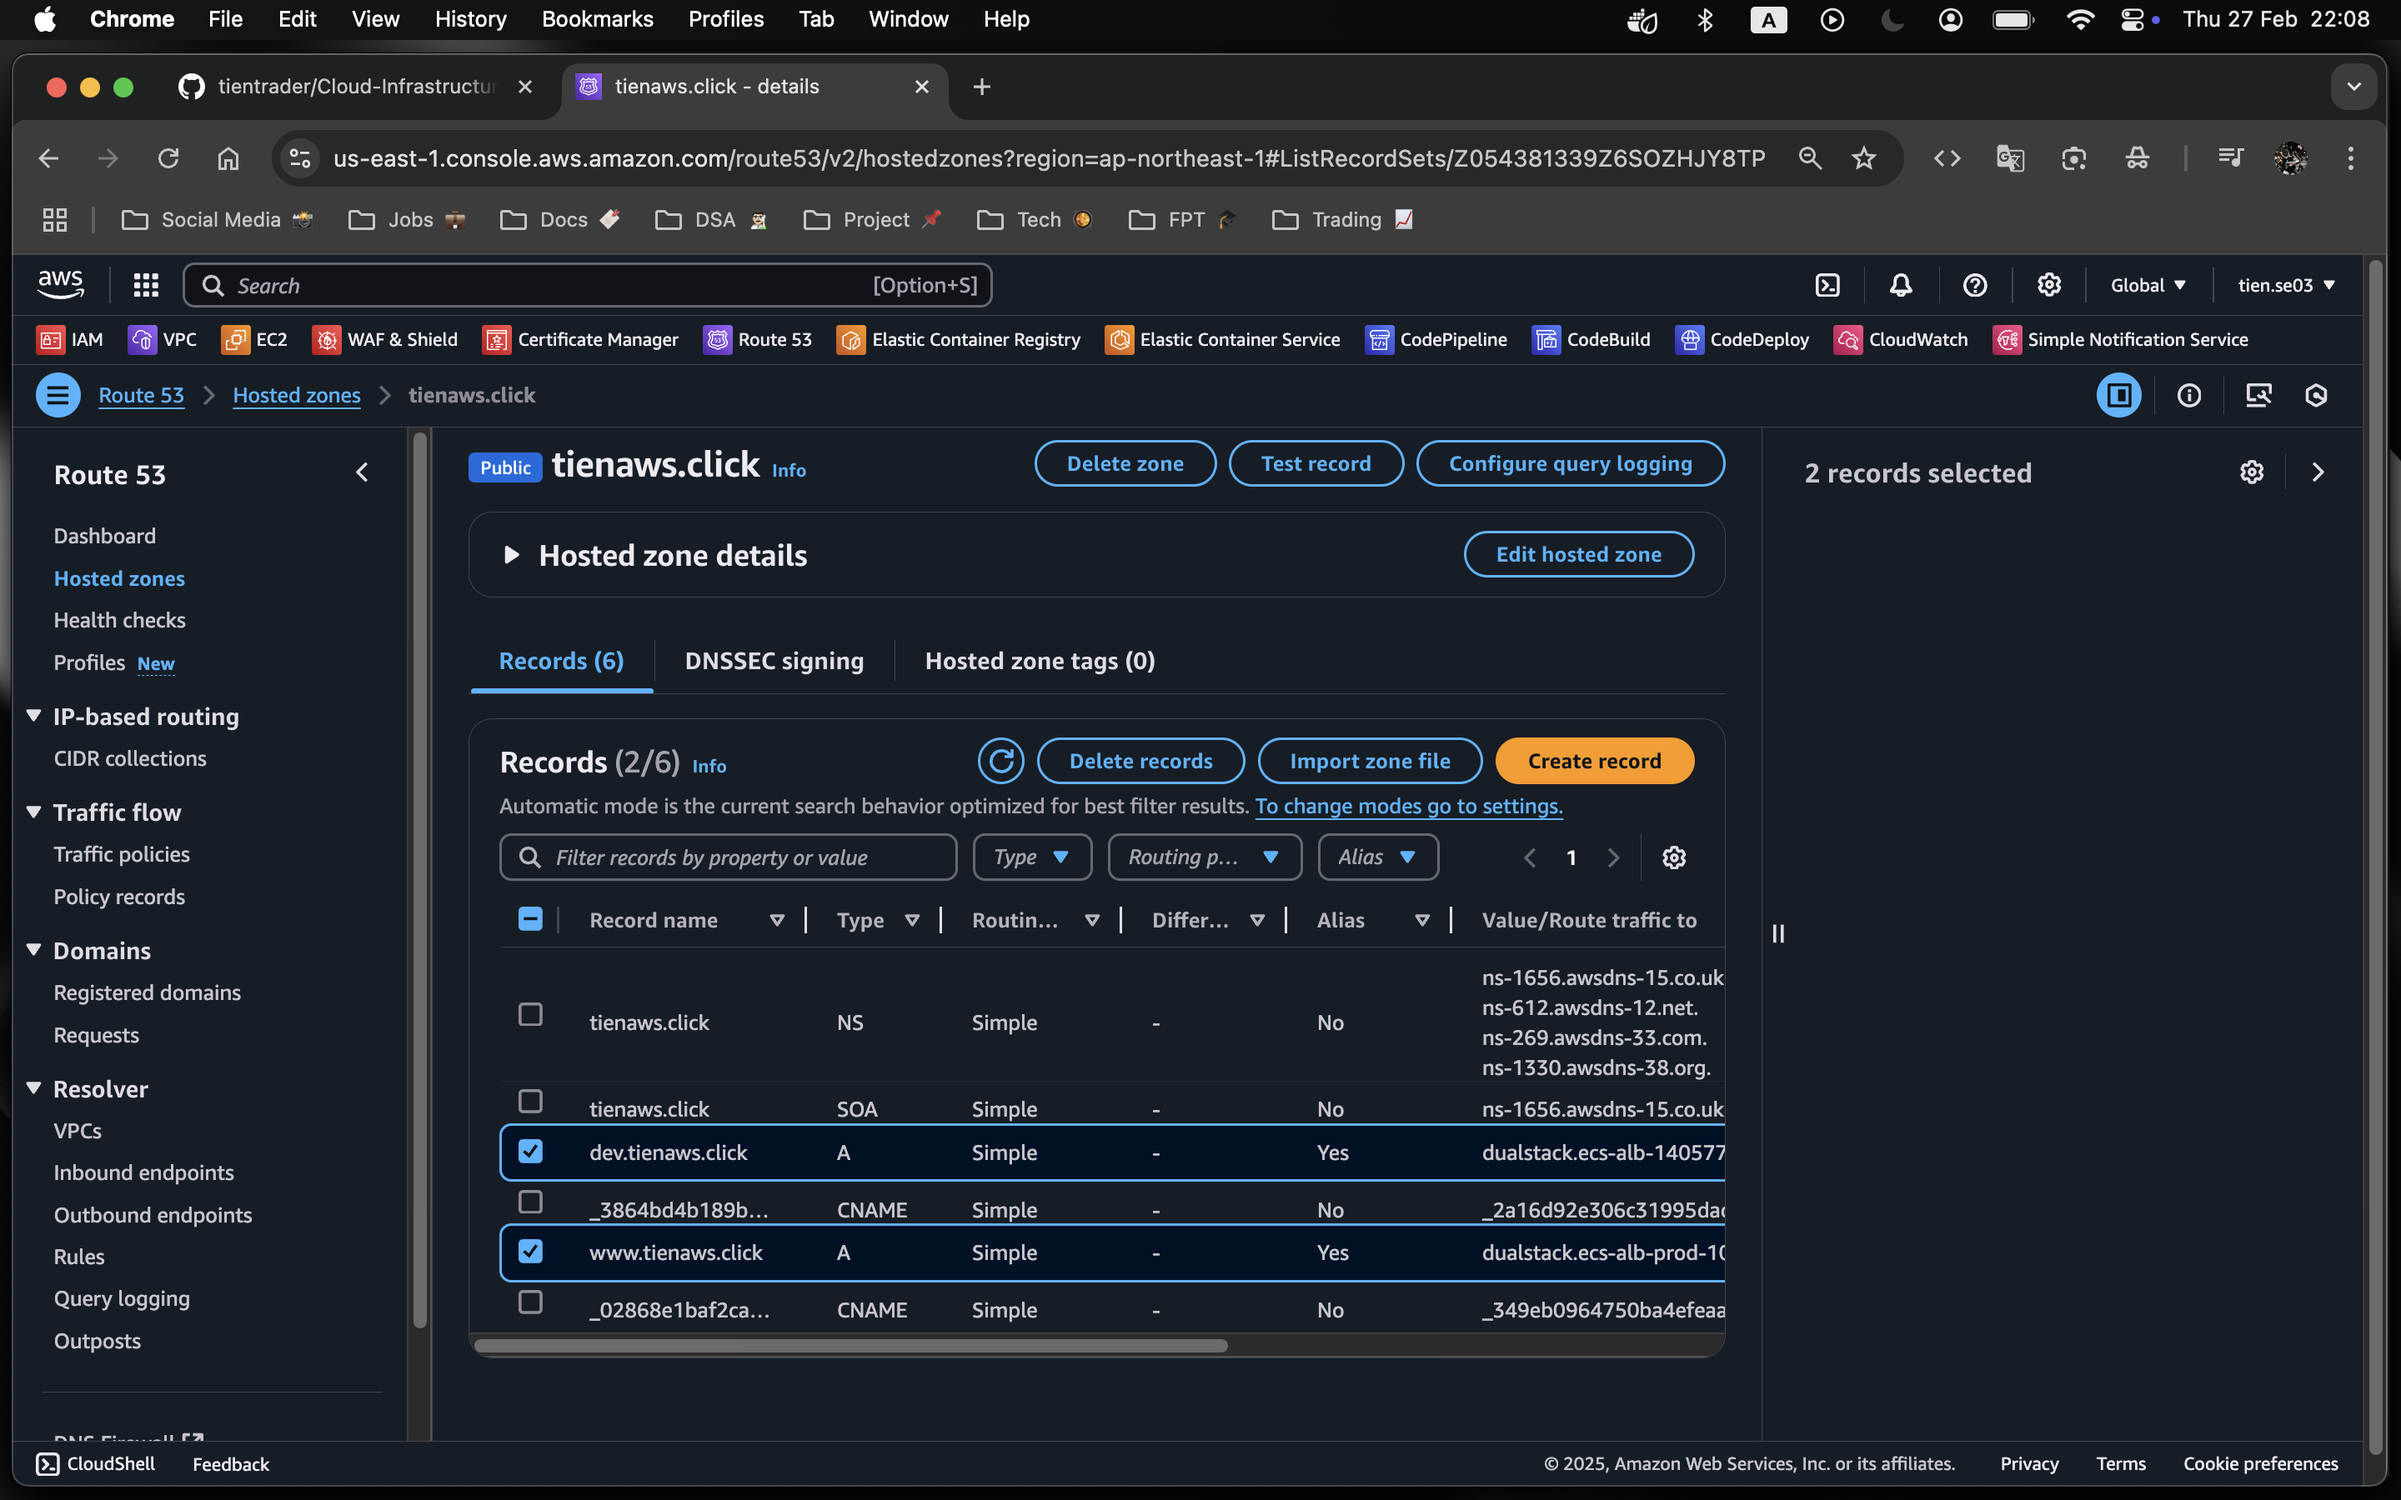
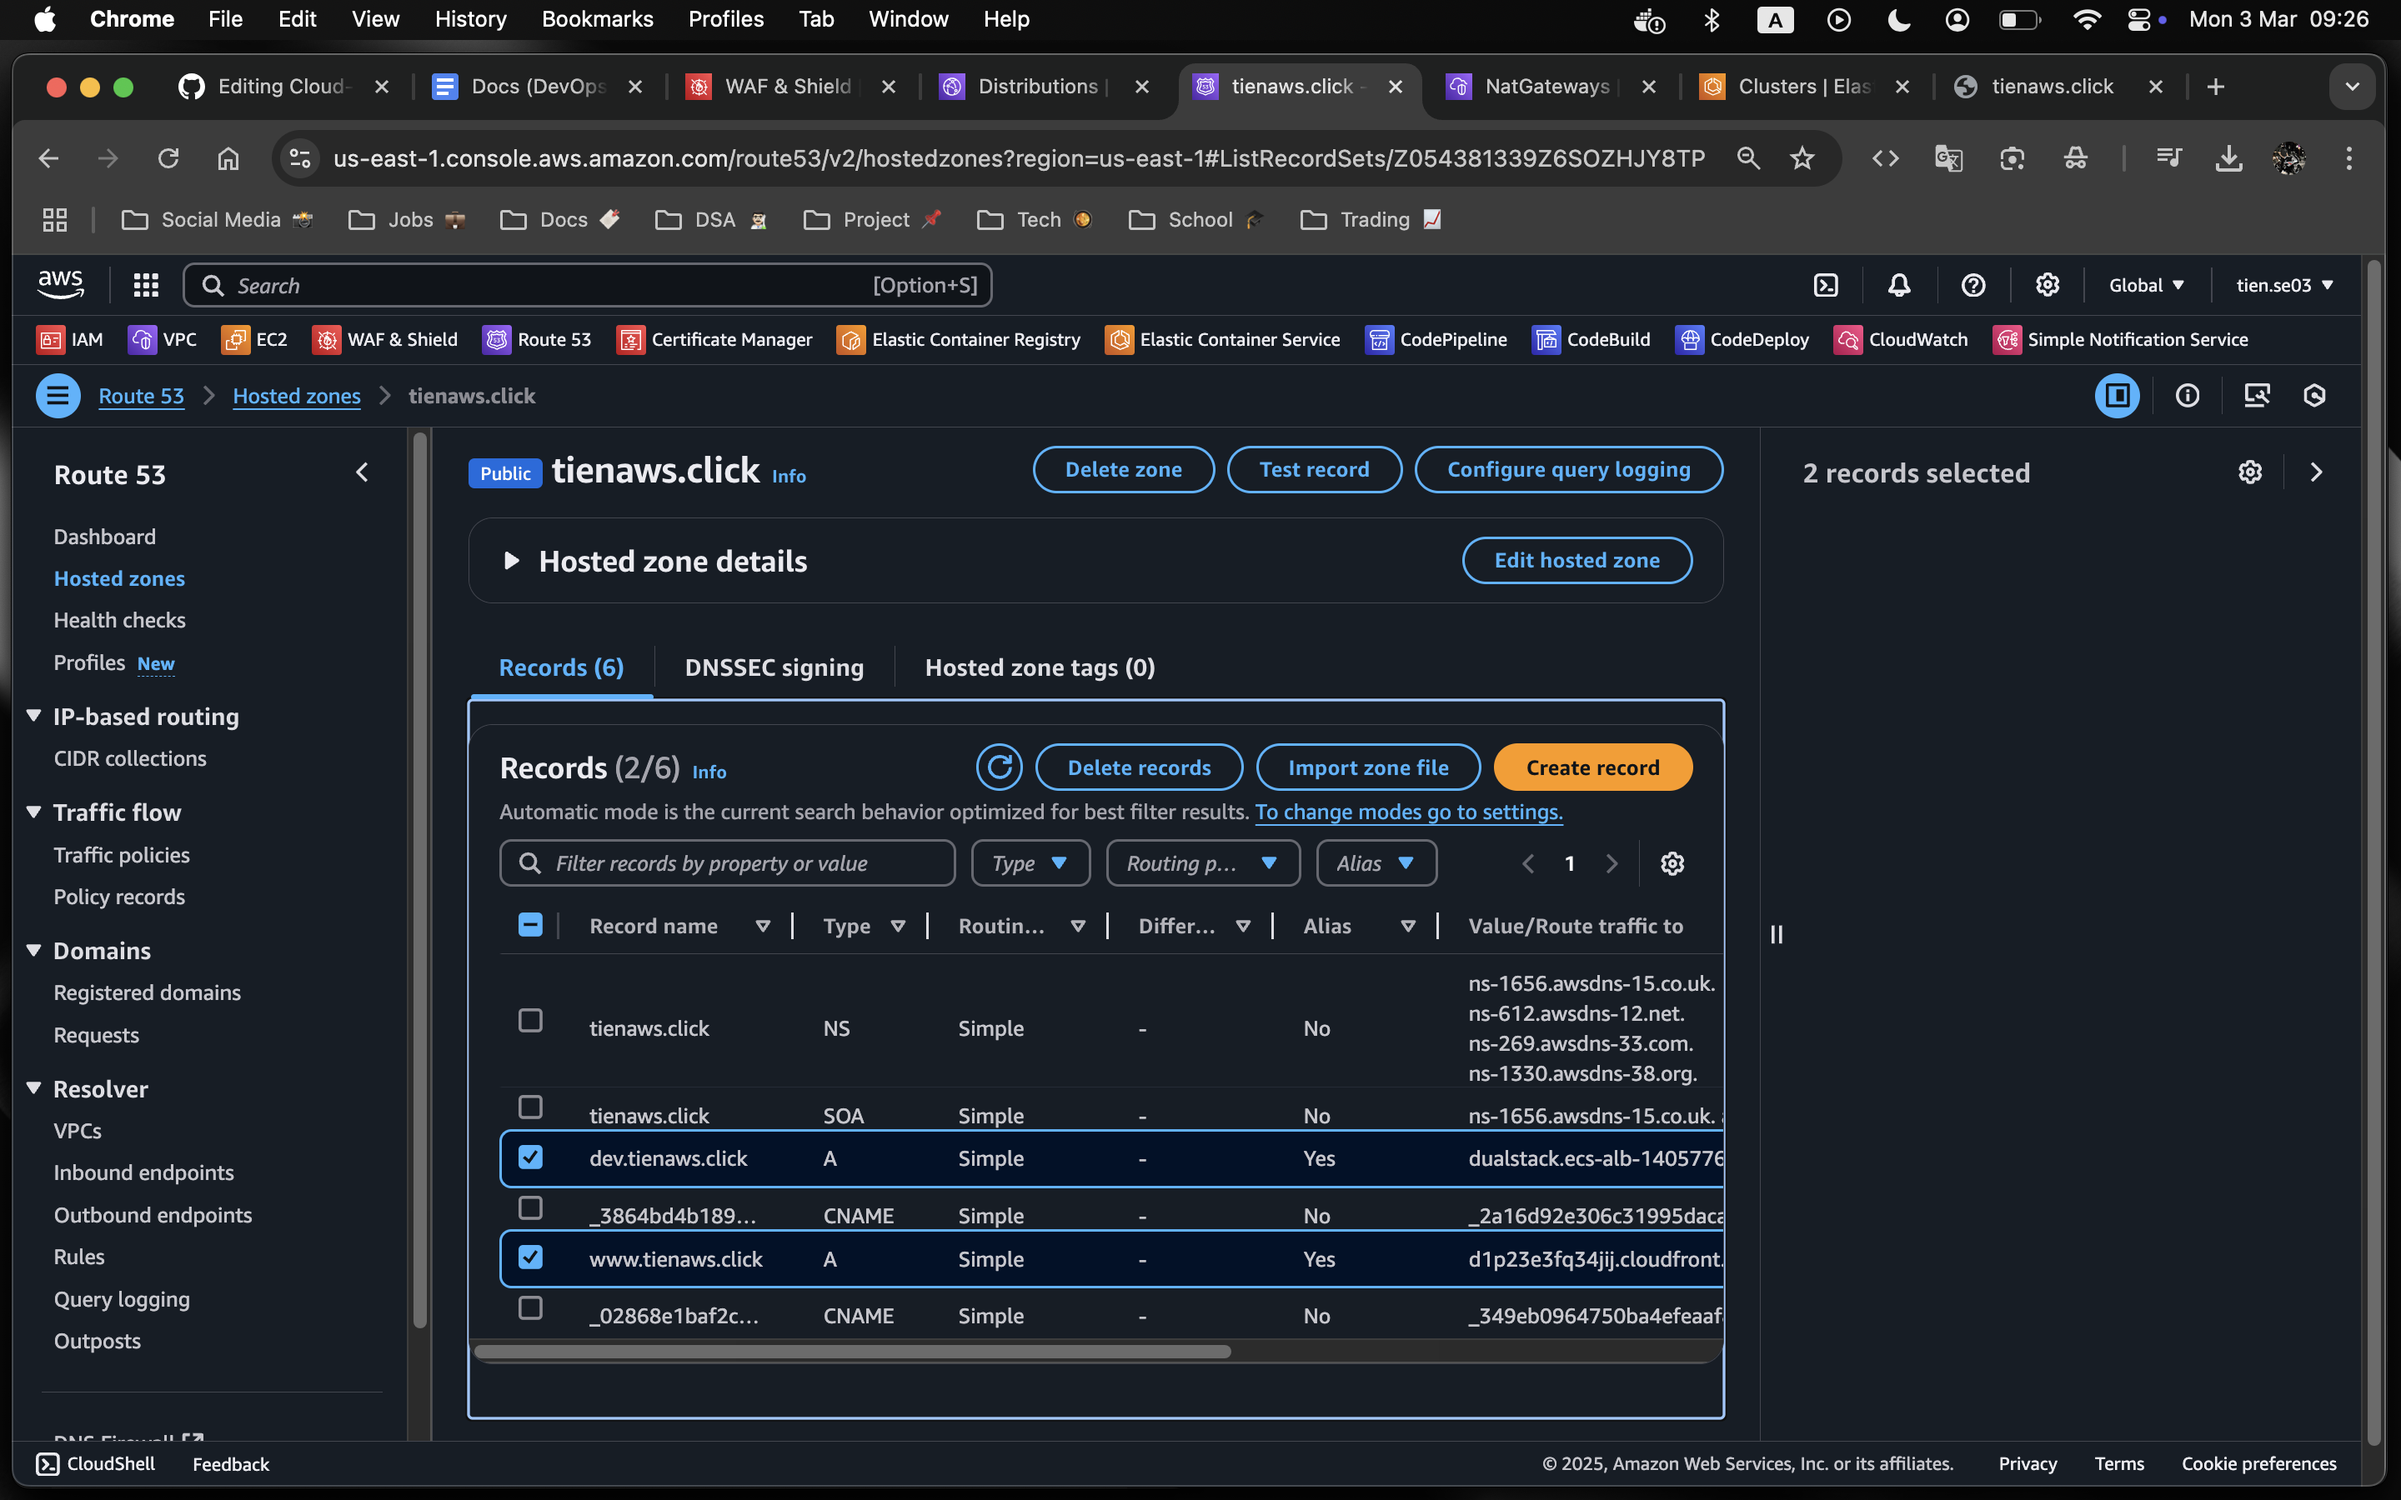
refactor

diff --git a/README.md b/README.md
@@ -31,12 +31,15 @@
 
 ![alb](resources/alb.png)
 
-- <img src="https://i.imgur.com/jFcQvRW.png" width="30" height="30" /> **Web Application Firewall (WAF)**: Protects against common security threats, including SQL Injection (SQLi) and Cross-Site Scripting (XSS).
+- <img src="https://i.imgur.com/jFcQvRW.png" width="30" height="30" /> **Web Application Firewall (WAF)** & <img src="https://i.imgur.com/XUEjtQR.png" width="30" height="30" /> **Amazon CloudFront**:
 
-  - DEV
-    ![waf-dev](resources/waf-dev.png)
-  - PROD
-    ![waf-prod](resources/waf-prod.png)
+  - **WAF** protects against common security threats, including SQL Injection (SQLi) and Cross-Site Scripting (XSS).
+  - **CloudFront** serves cached content globally for improved performance and security.
+
+    - WAF
+      ![waf](resources/waf.png)
+    - CLOUDFRONT
+      ![cloudfront](resources/cloudfront.png)
 
 - <img src="https://i.imgur.com/CHzMALx.png" width="30" height="30" /> **Amazon Route 53**: Routes domain traffic to the appropriate endpoints.
 
@@ -50,7 +53,7 @@
 
 ### 🚀 Container Orchestration
 
-- <img src="https://i.imgur.com/SWw2HAB.png" width="30" height="30" /> **Elastic Container Service (ACM)**: A fully managed container orchestration service that simplifies the deployment, scaling, and management of containerized applications.
+- <img src="https://i.imgur.com/SWw2HAB.png" width="30" height="30" /> **Elastic Container Service (ECS)**: A fully managed container orchestration service that simplifies the deployment, scaling, and management of containerized applications.
 - <img src="https://i.imgur.com/WZPqH1T.png" width="30" height="30" /> **Serverless Compute Engine (Fargate)**: Eliminates the need for server provisioning, allowing automatic scaling and resource optimization.
 
   - DEV
